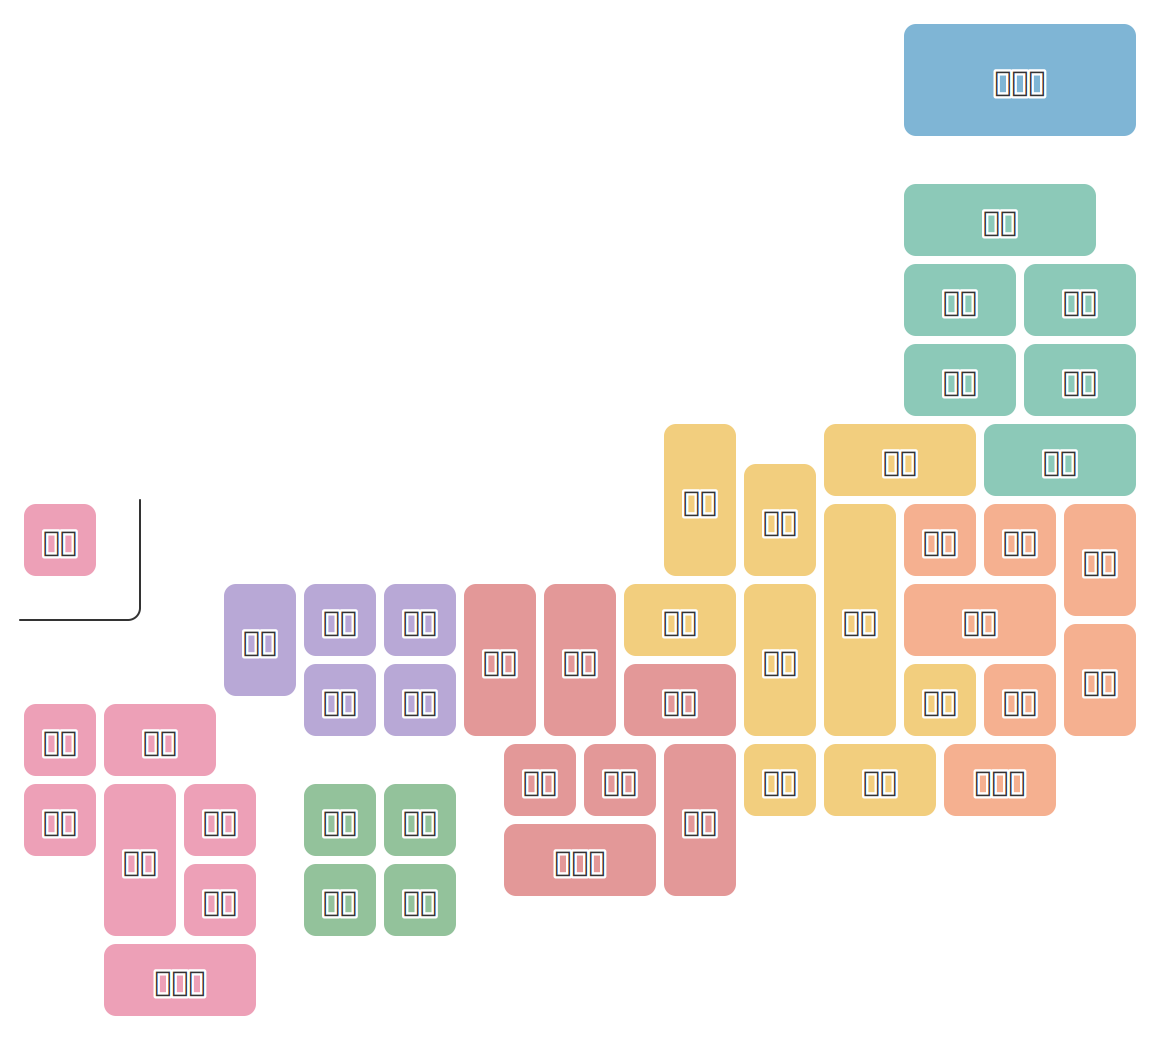
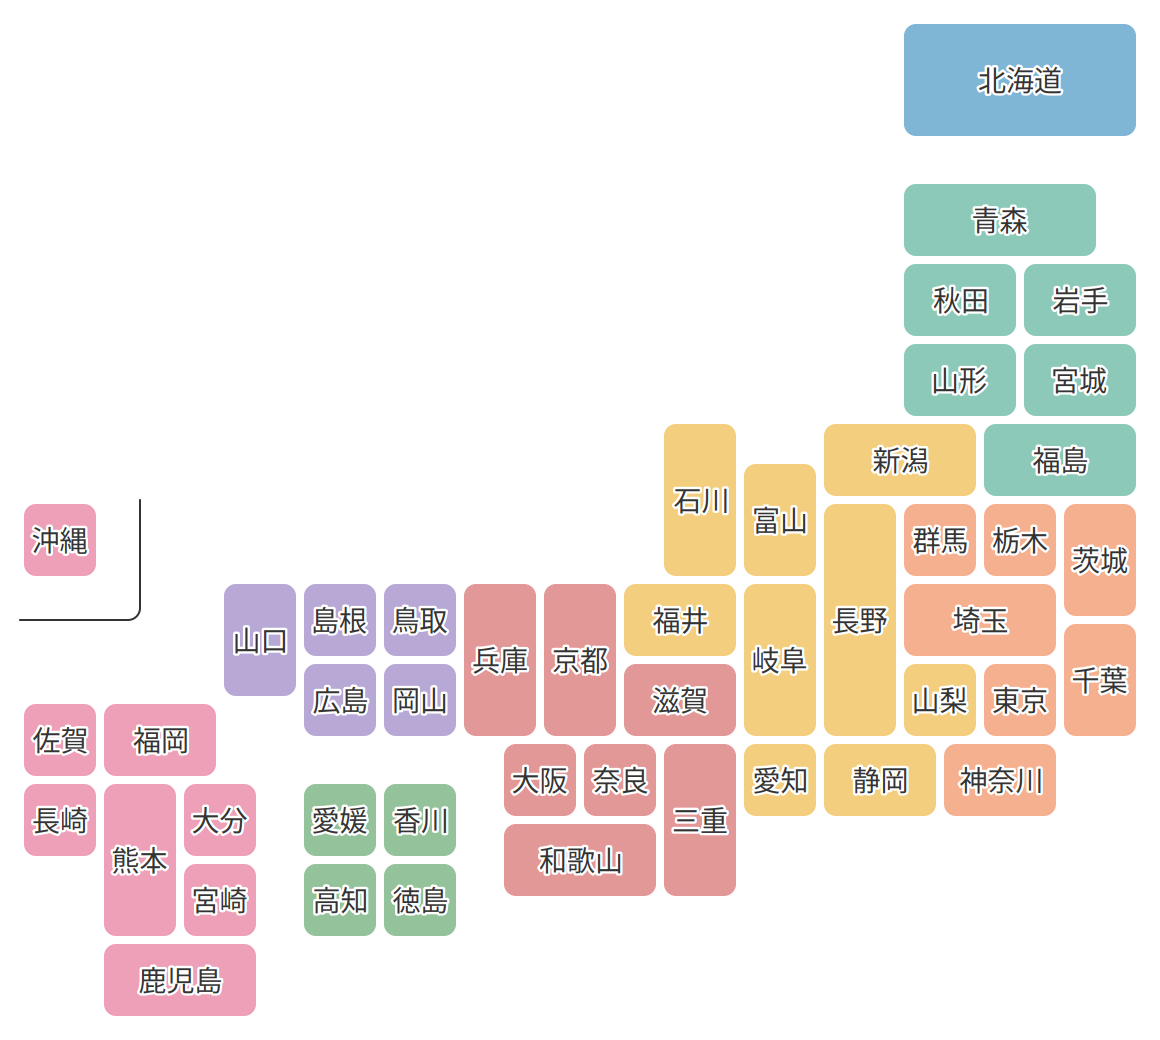
Drop IPAGothic from the font stack and fix preview font resolution

diff --git a/examples/svg-choropleth.html b/examples/svg-choropleth.html
@@ -15,7 +15,7 @@
 <meta charset="utf-8">
 <title>県名の画数合計を塗り分ける例</title>
 <style>
-  body { font-family: "IPAGothic", "Hiragino Sans", "Hiragino Kaku Gothic ProN", "Noto Sans JP", "Yu Gothic", Meiryo, sans-serif; background: #fff; color: #333; }
+  body { font-family: "Hiragino Sans", "Hiragino Kaku Gothic ProN", "Yu Gothic", "Noto Sans JP", sans-serif; background: #fff; color: #333; }
   #title { text-align: center; margin: 2rem 0 0; font-size: 1.1rem; }
   #wrap { width: min(90vmin, 700px); margin: .5rem auto; }
   #wrap svg { width: 100%; height: auto; }

diff --git a/examples/css-grid.html b/examples/css-grid.html
@@ -15,7 +15,7 @@
 <meta charset="utf-8">
 <title>japan.grid.json を CSS Grid で描画する例（県境を判定して結合）</title>
 <style>
-  body { font-family: "IPAGothic", "Hiragino Sans", "Hiragino Kaku Gothic ProN", "Noto Sans JP", "Yu Gothic", Meiryo, sans-serif; background: #fafafa; }
+  body { font-family: "Hiragino Sans", "Hiragino Kaku Gothic ProN", "Yu Gothic", "Noto Sans JP", sans-serif; background: #fafafa; }
   #map {
     display: grid;
     width: min(90vmin, 700px);

diff --git a/build/preview.py b/build/preview.py
@@ -4,11 +4,29 @@
 
 usage: python3 build/preview.py
 """
-import re, os
+import re, os, subprocess
 import cairosvg
 
 HERE = os.path.dirname(os.path.abspath(__file__))
 ROOT = os.path.dirname(HERE)
+
+# cairosvg は font-family のリストを解決できず、実在する単一のファミリー名しか扱えない
+# （リストを渡すと豆腐になる）。そのため実行環境にあるものを1つ選んで差し替える。
+# svg/ のSVG自体は書き換えないので、配布物のフォント指定には影響しない。
+FONT_CANDIDATES = ["Hiragino Sans", "Yu Gothic", "Noto Sans CJK JP", "Noto Sans JP", "IPAGothic"]
+
+
+def pick_font():
+    try:
+        installed = subprocess.run(["fc-list", "--format", "%{family}\n"],
+                                   capture_output=True, text=True, check=True).stdout.lower()
+    except (OSError, subprocess.CalledProcessError):
+        return FONT_CANDIDATES[0]
+    for fam in FONT_CANDIDATES:
+        if fam.lower() in installed:
+            return fam
+    raise SystemExit("NG: 日本語フォントが見つかりません。" + " / ".join(FONT_CANDIDATES) + " のいずれかを入れてください")
+
 
 REGION = [
     (range(1, 2),   "#7FB5D5"),  # 北海道
@@ -31,10 +49,13 @@ with open(os.path.join(ROOT, "svg", "japan.svg"), encoding="utf-8") as f:
     svg = f.read()
 svg = re.sub(r'(<path id="JP-(\d+)")',
              lambda m: f'{m.group(1)} fill="{color(m.group(2))}"', svg)
+font = pick_font()
+svg = re.sub(r"font-family='[^']*'", f"font-family='{font}'", svg)
+
 svg = svg.replace('</title>',
                   '</title>\n\t<rect x="-5" y="-5" width="290" height="260" fill="#FFFFFF"/>', 1)
 
 out = os.path.join(ROOT, "assets", "preview.png")
 os.makedirs(os.path.dirname(out), exist_ok=True)
 cairosvg.svg2png(bytestring=svg.encode("utf-8"), write_to=out, output_width=1160)
-print("OK:", out)
+print(f"OK: {out}  (font: {font})")
